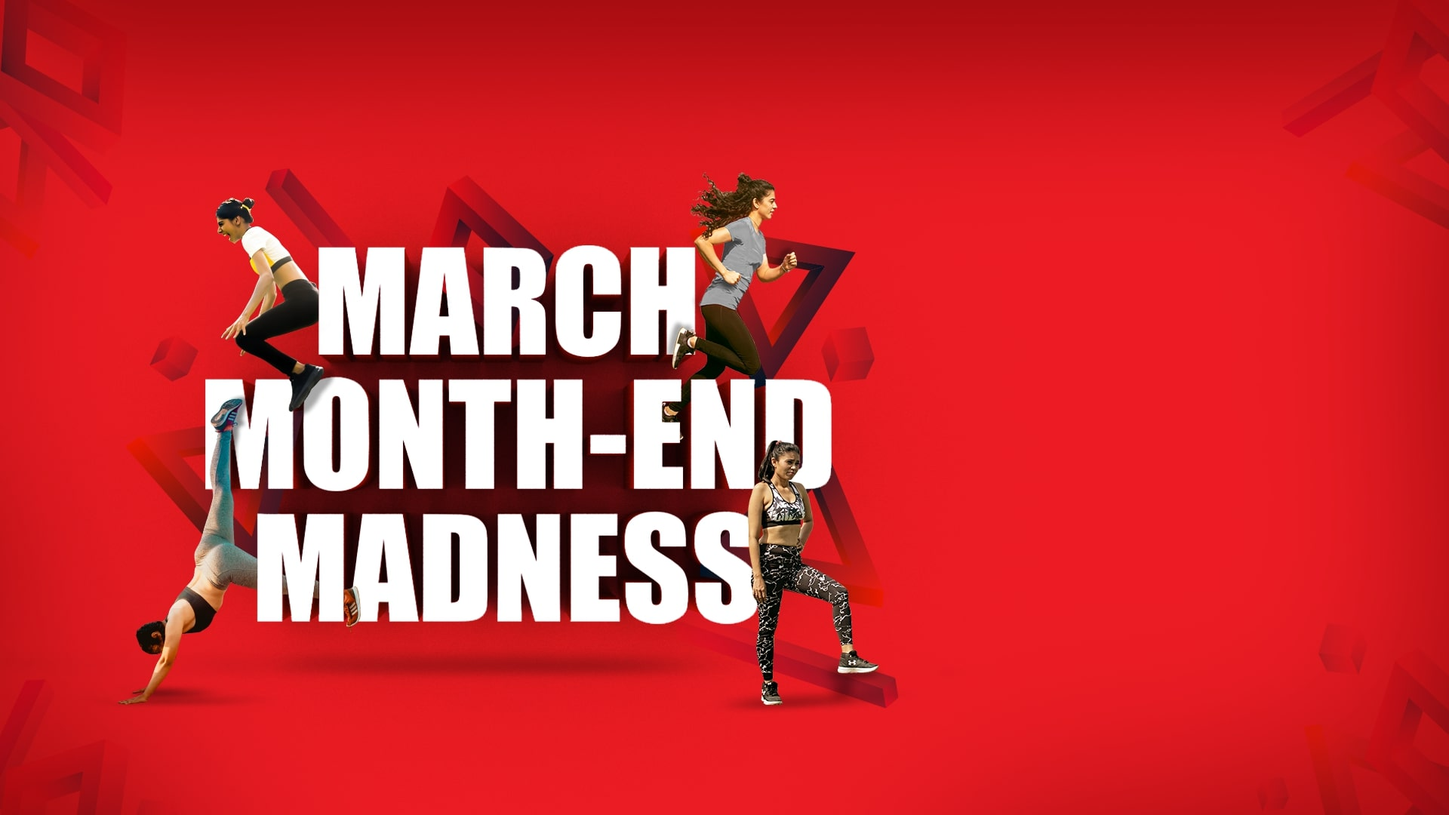
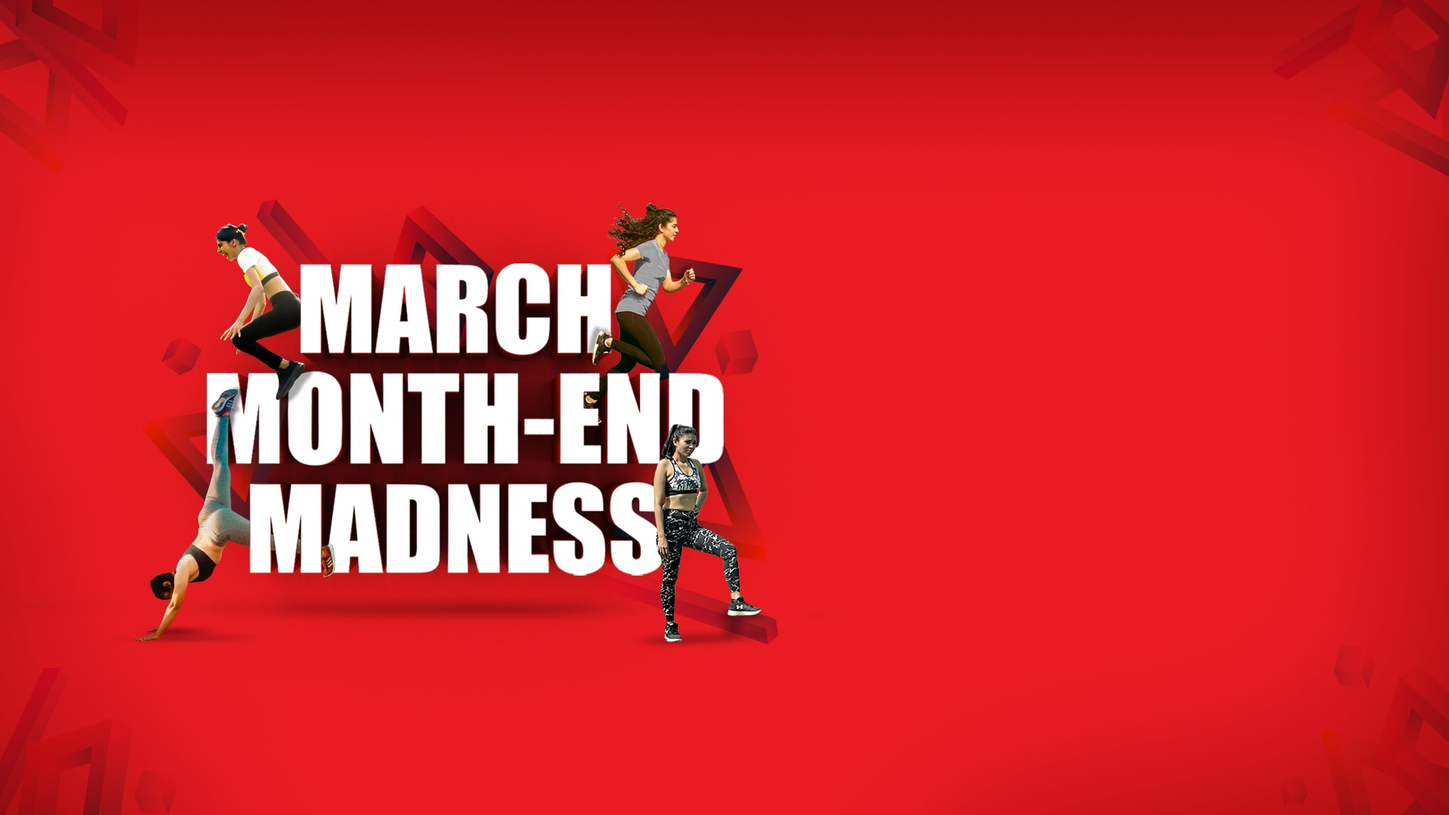
minor design changes

diff --git a/src/assets/css/style.css b/src/assets/css/style.css
@@ -1,1 +1,1 @@
-html{font-family:sans-serif;-ms-text-size-adjust:100%;-webkit-text-size-adjust:100%;-webkit-font-smoothing:antialiased;text-rendering:optimizeLegibility}body{margin:0;font-size:17px}article,aside,details,figcaption,figure,footer,header,main,menu,nav,section,summary{display:block}audio,canvas,progress,video{display:inline-block}audio:not([controls]){display:none;height:0}progress{vertical-align:baseline}[hidden],template{display:none}a{background-color:transparent;-webkit-text-decoration-skip:objects;text-decoration:none;color:#EB1F2E}a:active,a:hover{outline-width:0;border-bottom:1px solid #EB1F2E}abbr[title]{border-bottom:none;text-decoration:underline;-webkit-text-decoration:underline dotted;text-decoration:underline dotted}b,strong{font-weight:inherit;font-weight:700er}dfn{font-style:italic}h1{font-size:2em;margin:.67em 0}mark{background-color:#ff0;color:#000}small{font-size:80%}sub,sup{font-size:75%;line-height:0;position:relative;vertical-align:baseline}sub{bottom:-.25em}sup{top:-.5em}img{border-style:none}svg:not(:root){overflow:hidden}code,kbd,pre,samp{font-family:monospace, monospace;font-size:1em}figure{margin:1em 40px}hr{-webkit-box-sizing:content-box;box-sizing:content-box;height:0;overflow:visible}button,input,optgroup,select,textarea{font:inherit;margin:0}optgroup{font-weight:700}button,input{overflow:visible}button,select{text-transform:none}[type=reset],[type=submit],button,html [type=button]{-webkit-appearance:button}[type=button]::-moz-focus-inner,[type=reset]::-moz-focus-inner,[type=submit]::-moz-focus-inner,button::-moz-focus-inner{border-style:none;padding:0}[type=button]:-moz-focusring,[type=reset]:-moz-focusring,[type=submit]:-moz-focusring,button:-moz-focusring{outline:1px dotted ButtonText}fieldset{border:1px solid silver;margin:0 2px;padding:.35em .625em .75em}legend{-webkit-box-sizing:border-box;box-sizing:border-box;color:inherit;display:table;max-width:100%;padding:0;white-space:normal}textarea{overflow:auto}[type=checkbox],[type=radio]{-webkit-box-sizing:border-box;box-sizing:border-box;padding:0}[type=number]::-webkit-inner-spin-button,[type=number]::-webkit-outer-spin-button{height:auto}[type=search]{-webkit-appearance:textfield;outline-offset:-2px}[type=search]::-webkit-search-cancel-button,[type=search]::-webkit-search-decoration{-webkit-appearance:none}::-webkit-input-placeholder{color:inherit;opacity:.54}::-webkit-file-upload-button{-webkit-appearance:button;font:inherit}html{font:112.5%/1.45em georgia, serif;-webkit-box-sizing:border-box;box-sizing:border-box;overflow-y:scroll}*{-webkit-box-sizing:inherit;box-sizing:inherit}*:before{-webkit-box-sizing:inherit;box-sizing:inherit}*:after{-webkit-box-sizing:inherit;box-sizing:inherit}hgroup{margin-left:0;margin-right:0;margin-top:0;padding-bottom:0;padding-left:0;padding-right:0;padding-top:0;margin-bottom:1.45rem}ul{margin-left:1.45rem;margin-right:0;margin-top:0;padding-bottom:0;padding-left:0;padding-right:0;padding-top:0;margin-bottom:1.45rem;list-style-position:outside;list-style-image:none}ol{margin-left:1.45rem;margin-right:0;margin-top:0;padding-bottom:0;padding-left:0;padding-right:0;padding-top:0;margin-bottom:1.45rem;list-style-position:outside;list-style-image:none}dl{margin-left:0;margin-right:0;margin-top:0;padding-bottom:0;padding-left:0;padding-right:0;padding-top:0;margin-bottom:1.45rem}dd{margin-left:0;margin-right:0;margin-top:0;padding-bottom:0;padding-left:0;padding-right:0;padding-top:0;margin-bottom:1.45rem}p{margin-left:0;margin-right:0;margin-top:0;padding-bottom:0;padding-left:0;padding-right:0;padding-top:0;margin-bottom:1.45rem}figure{margin-left:0;margin-right:0;margin-top:0;padding-bottom:0;padding-left:0;padding-right:0;padding-top:0;margin-bottom:1.45rem}pre{margin-left:0;margin-right:0;margin-top:0;padding-bottom:0;padding-left:0;padding-right:0;padding-top:0;margin-bottom:1.45rem;font-size:0.85rem;line-height:1.42;background:rgba(0,0,0,0.04);border-radius:3px;overflow:auto;word-wrap:normal;padding:1.45rem}table{margin-left:0;margin-right:0;margin-top:0;padding-bottom:0;padding-left:0;padding-right:0;padding-top:0;margin-bottom:1.45rem;font-size:1rem;line-height:1.45rem;border-collapse:collapse;width:100%}fieldset{margin-left:0;margin-right:0;margin-top:0;padding-bottom:0;padding-left:0;padding-right:0;padding-top:0;margin-bottom:1.45rem}blockquote{margin-left:1.45rem;margin-right:1.45rem;margin-top:0;padding-bottom:0;padding-left:0;padding-right:0;padding-top:0;margin-bottom:1.45rem}form{margin-left:0;margin-right:0;margin-top:0;padding-bottom:0;padding-left:0;padding-right:0;padding-top:0;margin-bottom:1.45rem}noscript{margin-left:0;margin-right:0;margin-top:0;padding-bottom:0;padding-left:0;padding-right:0;padding-top:0;margin-bottom:1.45rem}iframe{margin-left:0;margin-right:0;margin-top:0;padding-bottom:0;padding-left:0;padding-right:0;padding-top:0;margin-bottom:1.45rem}hr{margin-left:0;margin-right:0;margin-top:0;padding-bottom:0;padding-left:0;padding-right:0;padding-top:0;margin-bottom:calc(1.45rem - 1px);background:rgba(0,0,0,0.2);border:none;height:1px}address{margin-left:0;margin-right:0;margin-top:0;padding-bottom:0;padding-left:0;padding-right:0;padding-top:0;margin-bottom:1.45rem}b{font-weight:700}strong{font-weight:700}dt{font-weight:700}th{font-weight:700}li{margin-bottom:calc(1.45rem / 2)}ol li{padding-left:0}ul li{padding-left:0}li>ol{margin-left:1.45rem;margin-bottom:calc(1.45rem / 2);margin-top:calc(1.45rem / 2)}li>ul{margin-left:1.45rem;margin-bottom:calc(1.45rem / 2);margin-top:calc(1.45rem / 2)}blockquote *:last-child{margin-bottom:0}li *:last-child{margin-bottom:0}p *:last-child{margin-bottom:0}li>p{margin-bottom:calc(1.45rem / 2)}code{font-size:0.85rem;line-height:1.45rem}kbd{font-size:0.85rem;line-height:1.45rem}samp{font-size:0.85rem;line-height:1.45rem}abbr{border-bottom:1px dotted rgba(0,0,0,0.5);cursor:help}acronym{border-bottom:1px dotted rgba(0,0,0,0.5);cursor:help}abbr[title]{border-bottom:1px dotted rgba(0,0,0,0.5);cursor:help;text-decoration:none}thead{text-align:left}td,th{text-align:left;border-bottom:1px solid rgba(0,0,0,0.12);font-feature-settings:"tnum";-moz-font-feature-settings:"tnum";-ms-font-feature-settings:"tnum";-webkit-font-feature-settings:"tnum";padding-left:0.96667rem;padding-right:0.96667rem;padding-top:0.725rem;padding-bottom:calc(0.725rem - 1px)}th:first-child,td:first-child{padding-left:0}th:last-child,td:last-child{padding-right:0}tt,code{background-color:rgba(0,0,0,0.04);border-radius:3px;font-family:"SFMono-Regular", Consolas, "Roboto Mono", "Droid Sans Mono", "Liberation Mono", Menlo, Courier, monospace;padding:0;padding-top:0.2em;padding-bottom:0.2em}pre code{background:none;line-height:1.42}code:before,code:after,tt:before,tt:after{letter-spacing:-0.2em;content:" "}pre code:before,pre code:after,pre tt:before,pre tt:after{content:""}@media only screen and (max-width: 480px){html{font-size:100%}}body{color:#1E1E1E;font-family:Roboto, Helvetica, Arial, sans-serif;font-weight:normal;word-wrap:break-word;-webkit-font-kerning:normal;font-kerning:normal;-ms-font-feature-settings:"kern", "liga", "clig", "calt";-webkit-font-feature-settings:"kern", "liga", "clig", "calt";font-feature-settings:"kern", "liga", "clig", "calt"}img{max-width:100%;margin-left:0;margin-right:0;margin-top:0;padding-bottom:0;padding-left:0;padding-right:0;padding-top:0;margin-bottom:10px}h1,h2,h3,h4,h5,h6{margin-left:0;margin-right:0;margin-top:0;padding-bottom:0;padding-left:0;padding-right:0;padding-top:0;margin-bottom:20px;color:inherit;font-weight:700;text-rendering:optimizeLegibility;line-height:1.5;font-family:Roboto, Helvetica, Arial, sans-serif}h1{font-size:2.75em;line-height:1.15em}h2{font-size:2.25em}h3{font-size:1.75em;line-height:1.35}h4{font-size:1.125em}h5{font-size:1em}h6{font-size:0.75em}@media screen and (max-width: 767px){h1{font-size:2.5em}h2{font-size:2em}h3{font-size:1.5em}}@media screen and (max-width: 480px){h1{font-size:2em}h2{font-size:1.625em}h3{font-size:1.375em}}input[type="text"],input[type="tel"],input[type="email"],input[type="number"],select{padding:10px 15px 10px 0px;margin:10px 0;border:none;border-bottom:2px solid #aaaaaa;-webkit-transition:all 0.2s ease-in-out;transition:all 0.2s ease-in-out;width:100%;background-color:unset}select{color:#767676}option{color:#1E1E1E}input[type="text"],input[type="tel"],input[type="email"],input[type="number"]{padding-left:4px}input[type="text"]:focus,input[type="tel"]:focus,input[type="email"]:focus,input[type="number"]:focus,select:focus{outline:none;border-bottom-color:#EB1F2E}p,small{color:#4b4b4b}.container{max-width:1200px;padding:0 3%;margin:0 auto}.red{color:#EB1F2E}.line{height:4px;width:100px;background-color:#EB1F2E;margin:25px 0;-webkit-border-radius:5px;-moz-border-radius:5px;border-radius:5px}.yellow{color:#fede0d}.white{color:#ffffff}.align-center{text-align:center}.normal{font-weight:normal}.bold{font-weight:700}.button,.button:visited,input[type="submit"],input[type="submit"]:visited{display:inline-block;background-color:#EB1F2E;color:#ffffff;padding:10px 15px;border-radius:5px;font-weight:700;-webkit-box-shadow:0px 2px 5px rgba(0,0,0,0.35);box-shadow:0px 2px 5px rgba(0,0,0,0.35);-webkit-transition:all 0.2s ease-in-out;transition:all 0.2s ease-in-out;border-bottom-width:0;text-transform:uppercase;font-size:85%;margin:10px;outline:none;border:none;cursor:pointer}.button:hover,.button:focus,input[type="submit"]:hover,input[type="submit"]:focus{-webkit-transform:translateY(-2px);transform:translateY(-2px);background-color:#ee3a46;-webkit-box-shadow:0px 2px 10px rgba(0,0,0,0.35);box-shadow:0px 2px 10px rgba(0,0,0,0.35);border-bottom-width:0}.button-inverted,.button-inverted:visited{display:inline-block;background-color:#ffffff;color:#EB1F2E;padding:10px 15px;border-radius:5px;font-weight:700;-webkit-box-shadow:0px 2px 5px rgba(0,0,0,0.35);box-shadow:0px 2px 5px rgba(0,0,0,0.35);-webkit-transition:all 0.2s ease-in-out;transition:all 0.2s ease-in-out;border-bottom-width:0;text-transform:uppercase;font-size:90%;margin:10px}.button-inverted:hover,.button-inverted:focus{-webkit-transform:translateY(-2px);transform:translateY(-2px);-webkit-box-shadow:0px 2px 10px rgba(0,0,0,0.35);box-shadow:0px 2px 10px rgba(0,0,0,0.35);border-bottom-width:0}.button-fluid{width:100%;text-align:center;margin:0;font-size:18px}.offer{padding:10px;background-color:#ffde5f;-webkit-box-shadow:5.66px 5.66px 0px 0px #dbba3b;box-shadow:5.66px 5.66px 0px 0px #dbba3b;color:#EB1F2E;font-size:120%;max-width:300px;margin:0px auto 30px auto}@media only screen and (max-width: 767px){.d-none-sm{display:none}}.partial-get-started{background-color:#efefef;padding:100px 15%}.partial-get-started>div{display:-webkit-box;display:-ms-flexbox;display:flex;-ms-flex-wrap:wrap;flex-wrap:wrap}.partial-get-started__text,.partial-get-started__cta{-webkit-box-flex:50%;-ms-flex:50%;flex:50%;min-width:350px}.partial-get-started__cta{text-align:right;padding-top:20px}@media (max-width: 767px){.partial-get-started{background-color:#efefef;padding:100px 10%}.partial-get-started__cta{text-align:center}}@media (max-width: 480px){.partial-get-started{padding:100px 5%}.partial-get-started__text,.partial-get-started__cta{-webkit-box-flex:100%;-ms-flex:100%;flex:100%;min-width:200px}}.partial-app-icon{display:inline-block;width:150px;margin-right:15px;-webkit-box-shadow:0px 2px 5px rgba(0,0,0,0.35);box-shadow:0px 2px 5px rgba(0,0,0,0.35);-webkit-transition:all 0.2s ease-in-out;transition:all 0.2s ease-in-out;margin-bottom:0;vertical-align:bottom;border-radius:6px}.partial-app-icon:hover,.partial-app-icon:focus{-webkit-transform:translateY(-2px);transform:translateY(-2px);-webkit-box-shadow:0px 2px 10px rgba(0,0,0,0.35);box-shadow:0px 2px 10px rgba(0,0,0,0.35)}@media (max-width: 767px){.partial-app-icon{margin-bottom:10px}}.partial-app-icons>a,.partial-app-icons>a:hover,.partial-app-icons>a:visited,.partial-app-icons>a:focus{border-bottom-width:0}.partial-download-swipe{padding-top:50px}.partial-download-swipe .container{display:flex;flex-wrap:wrap;justify-content:center;align-items:center}.partial-download-swipe__left,.partial-download-swipe__right{flex:50%;padding:50px;min-width:350px;padding-bottom:100px}.partial-download-swipe__left h2{margin-bottom:5px}.partial-download-swipe__right{text-align:center;padding-bottom:0}.partial-download-swipe__right img{max-width:300px;margin-bottom:0;vertical-align:middle}@media (max-width: 979px){.partial-download-swipe__left{padding:10px}}@media (max-width: 767px){.partial-download-swipe__left{padding:10px}.partial-download-swipe__right{padding-top:20px;padding-right:15%;padding-left:15%;padding-bottom:0}.partial-download-swipe__right img{max-width:100%}}.main-header{position:relative;padding:15px 20px;z-index:99;-webkit-box-shadow:0 2px 1px -1px rgba(0,0,0,0.2),0 1px 1px 0 rgba(0,0,0,0.14),0 1px 3px 0 rgba(0,0,0,0.12);box-shadow:0 2px 1px -1px rgba(0,0,0,0.2),0 1px 1px 0 rgba(0,0,0,0.14),0 1px 3px 0 rgba(0,0,0,0.12)}.main-header img{width:110px;margin-bottom:0;vertical-align:middle}.menu-icon-link:hover,.menu-icon-link:focus{border-bottom:none}.menu-link{float:right;margin-top:12px;padding-bottom:0px;color:#222222;color:rgba(0,0,0,0.6);border-bottom:1px solid transparent;line-height:1.3;-webkit-transition:all 0.2s ease-in-out;transition:all 0.2s ease-in-out}.menu-link:hover{color:rgba(0,0,0,0.9);border-bottom-color:rgba(0,0,0,0.8)}.footer-copyright{padding:20px 0;background-color:#1E1E1E;color:#888888;text-align:center}.footer-copyright a,.footer-copyright small{color:#616161;color:rgba(255,255,255,0.3);border:none !important}.footer-copyright a:hover,.footer-copyright a:focus{text-decoration:underline}.offer-highlight{background-color:#EB1F2E;padding:7px 12px;color:#ffffff;font-size:28px;-webkit-box-shadow:3px 3px 0px #9E1627;-moz-box-shadow:3px 3px 0px #9E1627;box-shadow:3px 3px 0px #9E1627;margin-left:10px;margin-right:12px}.offer-title-highlight{font-size:1.35em;line-height:1.3em;color:#EB1F2E;text-transform:uppercase;margin-bottom:15px;font-weight:bold}.offers-page-hero{padding-top:75px;padding-bottom:75px;background-image:url("../img/fitato-holi-offer.jpg");background-position:15% center;-webkit-background-size:450px;-moz-background-size:450px;background-size:450px;background-repeat:no-repeat;position:relative;min-height:550px;margin-bottom:-1px;text-align:center}.offers-page-hero__wrapper{width:55%;margin-left:auto}.offers-page-hero p{font-size:19px;line-height:1.3em;margin-bottom:0;margin-top:0}.offers-page-hero h1{margin-top:50px;margin-bottom:30px;font-size:68px;line-height:0.85em;color:#EB1F2E;font-weight:700;font-size:3.3em}.offers-page-hero h1 .normal{font-size:0.75em}@media (max-width: 979px){.offers-page-hero h1{font-size:3em}}@media (max-width: 767px){.offers-page-hero{min-height:100vh;padding-top:30px;padding-bottom:0px;padding-left:5%;padding-right:5%;-webkit-background-size:350px;-moz-background-size:350px;background-size:350px;background-position:top}.offers-page-hero__wrapper{width:100%}.offers-page-hero h1{font-size:38px;margin-top:350px}.offers-page-hero--prop__top-right{display:none}.offers-page-hero--prop__bottom-left{display:none}.offers-page-hero p{font-size:24px;line-height:1.4em}}@media (max-width: 380px){.offers-page-hero h1{font-size:34px}}.offers-page-intro{padding:50px 10%;padding-top:0px;margin-top:0px;text-align:center}.offers-page-intro--use-coupon{font-size:26px;padding-top:10px;font-weight:700;line-height:2em;color:#1E1E1E}.offers-page-intro small{color:#818181}.offers-page-intro .pricing-row{margin-bottom:20px}.offers-page-intro .pricing-col{border:1px solid #EFEFEF;-webkit-border-radius:5px;-moz-border-radius:5px;border-radius:5px}.offers-page-intro h2{max-width:600px;margin:20px auto 50px auto;line-height:1.3em}.offers-page-intro h3{font-size:24px;margin-bottom:30px;color:#383838}.offers-page-intro__items{padding:50px 0 10px 0;width:70%;margin:0 auto}.offers-page-intro__item--left,.offers-page-intro__item--right{-webkit-box-flex:1;-webkit-flex:1;-moz-box-flex:1;-ms-flex:1;flex:1;padding:0 30px}@media (max-width: 1200px){.offers-page-intro{padding:50px 10%;padding-top:20px;margin-top:0px}}@media (max-width: 979px){.offers-page-intro{margin-top:0px}}@media (max-width: 767px){.offers-page-intro{padding:50px 2%;margin-top:0px;text-align:center}.offers-page-intro--clear{display:block}}@media (max-width: 480px){.offers-page-intro{text-align:center}}.offers-page-banner{padding:100px 25%;background-repeat:no-repeat;-webkit-background-size:cover;-moz-background-size:cover;background-size:cover;background-position:center;background-color:#EFEFEF;text-align:center}.offers-page-banner h2{line-height:1.2em}.offers-page-banner p{font-size:20px;margin-bottom:0;line-height:1.4em}@media (max-width: 767px){.offers-page-banner{padding:100px 5%;text-align:left}}.offers-page-plans__items{display:-webkit-box;display:-ms-flexbox;display:-webkit-flex;display:-moz-box;display:flex;-ms-flex-wrap:wrap;-webkit-flex-wrap:wrap;flex-wrap:wrap;-webkit-box-pack:center;-ms-flex-pack:center;-webkit-justify-content:center;-moz-box-pack:center;justify-content:center;margin-bottom:20px;margin-top:30px}@media (max-width: 767px){.offers-page-plans__items{margin-bottom:10px}}.offers-page-plans__item{background-color:rgba(255,255,255,0.25);-webkit-box-flex:1;-ms-flex:1;-webkit-flex:1;-moz-box-flex:1;flex:1;min-width:300px;max-width:350px;-webkit-border-radius:5px;-moz-border-radius:5px;border-radius:5px;border:1px solid #dddddd;margin:0 10px;position:relative}.offers-page-plans__item--title{padding:30px;padding-bottom:20px;border-bottom:1px solid #dddddd}.offers-page-plans__item--title h3{margin-bottom:0;line-height:1.25em;font-size:1.35em;text-transform:uppercase;letter-spacing:0px}.offers-page-plans__item--body{padding:20px 5%}.offers-page-plans__item--cta{padding:30px;border-top:1px solid #ffdddd}.offers-page-plans__item--cta a{font-size:18px;font-weight:700}.offers-page-plans__item--price{font-size:44px;font-weight:700;color:#EB1F2E}.offers-page-plans__item--price-strike{font-size:24px;margin-bottom:20px;text-decoration:line-through}.offers-page-plans__item--get-cb{margin:0;font-weight:400;font-size:18px;padding-top:0px}@media (max-width: 767px){.offers-page-plans__item{margin-top:-1px}}@media (max-width: 480px){.offers-page-plans__item{margin:10px}}.fit-55 .offers-page-hero{background-image:url("../img/month-end-madenss.jpg");-webkit-background-size:cover;-moz-background-size:cover;background-size:cover;background-repeat:no-repeat;background-position:center;text-align:left;padding-top:100px;padding-bottom:0;overflow:auto;min-height:100vh}@media only screen and (max-width: 767px){.fit-55 .offers-page-hero{background-image:url("/assets/img/month-end-madenss-mobile.jpg");background-color:#E61B21;background-position:top;background-size:contain}}.fit-55 .offers-page-hero__wrapper{margin:0;width:35%;margin-left:auto;padding-right:20px;padding-left:5%;margin-top:15vh}@media (max-width: 767px){.fit-55 .offers-page-hero__wrapper{width:100%;padding-right:0px;padding-left:0px;margin-top:450px;margin-top:55vw;padding-bottom:5vw}}@media (max-width: 480px){.fit-55 .offers-page-hero__wrapper{padding-bottom:0}}.fit-55 .offers-page-hero h1{font-size:3em;font-style:italic;color:#EB1F2E;font-weight:900;margin-bottom:20px;margin-top:0;line-height:1.1}@media (max-width: 979px){.fit-55 .offers-page-hero h1{font-size:2.5em}}@media (max-width: 767px){.fit-55 .offers-page-hero h1{margin-top:10px;font-size:2em}}@media (max-width: 480px){.fit-55 .offers-page-hero h1{font-size:1.7em}}.fit-55 .offers-page-hero h2{font-size:1.7em;font-weight:900;line-height:1;color:#1E1E1E;margin-bottom:5px;font-style:italic}@media (max-width: 767px){.fit-55 .offers-page-hero h2{font-size:1.4em}}@media (max-width: 380px){.fit-55 .offers-page-hero h2{font-size:1.2em}}.fit-55 .offers-page-hero p.focus{font-size:1.5em;font-size:2em;color:#ffffff;margin-bottom:50px;margin-bottom:30px;font-weight:400;margin-top:5px}@media (max-width: 767px){.fit-55 .offers-page-hero p.focus{font-size:1.2em}}@media (max-width: 767px){.fit-55 .offers-page-hero p{font-size:1.3em}}.fit-55 .offers-page-intro{padding-top:50px;z-index:99;position:relative}p.move-down-icon-animate{font-size:16px !important;text-align:left;padding-top:100px;font-style:normal;font-weight:400;-webkit-filter:opacity(0.9);filter:opacity(0.9)}@media (max-width: 767px){p.move-down-icon-animate{display:none}}.black{color:#1E1E1E}.banner-mobile{display:none}@media (max-width: 767px){.banner-mobile{display:block}}p.offers-page-hero--code{font-size:2.5em;font-weight:700;margin:25px 0}p.offers-page-hero--code span{padding:15px 20px;border:2px dashed #4b4b4b;border-color:#ffffff;color:#eaff00}
+html{font-family:sans-serif;-ms-text-size-adjust:100%;-webkit-text-size-adjust:100%;-webkit-font-smoothing:antialiased;text-rendering:optimizeLegibility}body{margin:0;font-size:17px}article,aside,details,figcaption,figure,footer,header,main,menu,nav,section,summary{display:block}audio,canvas,progress,video{display:inline-block}audio:not([controls]){display:none;height:0}progress{vertical-align:baseline}[hidden],template{display:none}a{background-color:transparent;-webkit-text-decoration-skip:objects;text-decoration:none;color:#EB1F2E}a:active,a:hover{outline-width:0;border-bottom:1px solid #EB1F2E}abbr[title]{border-bottom:none;text-decoration:underline;-webkit-text-decoration:underline dotted;text-decoration:underline dotted}b,strong{font-weight:inherit;font-weight:700er}dfn{font-style:italic}h1{font-size:2em;margin:.67em 0}mark{background-color:#ff0;color:#000}small{font-size:80%}sub,sup{font-size:75%;line-height:0;position:relative;vertical-align:baseline}sub{bottom:-.25em}sup{top:-.5em}img{border-style:none}svg:not(:root){overflow:hidden}code,kbd,pre,samp{font-family:monospace, monospace;font-size:1em}figure{margin:1em 40px}hr{-webkit-box-sizing:content-box;box-sizing:content-box;height:0;overflow:visible}button,input,optgroup,select,textarea{font:inherit;margin:0}optgroup{font-weight:700}button,input{overflow:visible}button,select{text-transform:none}[type=reset],[type=submit],button,html [type=button]{-webkit-appearance:button}[type=button]::-moz-focus-inner,[type=reset]::-moz-focus-inner,[type=submit]::-moz-focus-inner,button::-moz-focus-inner{border-style:none;padding:0}[type=button]:-moz-focusring,[type=reset]:-moz-focusring,[type=submit]:-moz-focusring,button:-moz-focusring{outline:1px dotted ButtonText}fieldset{border:1px solid silver;margin:0 2px;padding:.35em .625em .75em}legend{-webkit-box-sizing:border-box;box-sizing:border-box;color:inherit;display:table;max-width:100%;padding:0;white-space:normal}textarea{overflow:auto}[type=checkbox],[type=radio]{-webkit-box-sizing:border-box;box-sizing:border-box;padding:0}[type=number]::-webkit-inner-spin-button,[type=number]::-webkit-outer-spin-button{height:auto}[type=search]{-webkit-appearance:textfield;outline-offset:-2px}[type=search]::-webkit-search-cancel-button,[type=search]::-webkit-search-decoration{-webkit-appearance:none}::-webkit-input-placeholder{color:inherit;opacity:.54}::-webkit-file-upload-button{-webkit-appearance:button;font:inherit}html{font:112.5%/1.45em georgia, serif;-webkit-box-sizing:border-box;box-sizing:border-box;overflow-y:scroll}*{-webkit-box-sizing:inherit;box-sizing:inherit}*:before{-webkit-box-sizing:inherit;box-sizing:inherit}*:after{-webkit-box-sizing:inherit;box-sizing:inherit}hgroup{margin-left:0;margin-right:0;margin-top:0;padding-bottom:0;padding-left:0;padding-right:0;padding-top:0;margin-bottom:1.45rem}ul{margin-left:1.45rem;margin-right:0;margin-top:0;padding-bottom:0;padding-left:0;padding-right:0;padding-top:0;margin-bottom:1.45rem;list-style-position:outside;list-style-image:none}ol{margin-left:1.45rem;margin-right:0;margin-top:0;padding-bottom:0;padding-left:0;padding-right:0;padding-top:0;margin-bottom:1.45rem;list-style-position:outside;list-style-image:none}dl{margin-left:0;margin-right:0;margin-top:0;padding-bottom:0;padding-left:0;padding-right:0;padding-top:0;margin-bottom:1.45rem}dd{margin-left:0;margin-right:0;margin-top:0;padding-bottom:0;padding-left:0;padding-right:0;padding-top:0;margin-bottom:1.45rem}p{margin-left:0;margin-right:0;margin-top:0;padding-bottom:0;padding-left:0;padding-right:0;padding-top:0;margin-bottom:1.45rem}figure{margin-left:0;margin-right:0;margin-top:0;padding-bottom:0;padding-left:0;padding-right:0;padding-top:0;margin-bottom:1.45rem}pre{margin-left:0;margin-right:0;margin-top:0;padding-bottom:0;padding-left:0;padding-right:0;padding-top:0;margin-bottom:1.45rem;font-size:0.85rem;line-height:1.42;background:rgba(0,0,0,0.04);border-radius:3px;overflow:auto;word-wrap:normal;padding:1.45rem}table{margin-left:0;margin-right:0;margin-top:0;padding-bottom:0;padding-left:0;padding-right:0;padding-top:0;margin-bottom:1.45rem;font-size:1rem;line-height:1.45rem;border-collapse:collapse;width:100%}fieldset{margin-left:0;margin-right:0;margin-top:0;padding-bottom:0;padding-left:0;padding-right:0;padding-top:0;margin-bottom:1.45rem}blockquote{margin-left:1.45rem;margin-right:1.45rem;margin-top:0;padding-bottom:0;padding-left:0;padding-right:0;padding-top:0;margin-bottom:1.45rem}form{margin-left:0;margin-right:0;margin-top:0;padding-bottom:0;padding-left:0;padding-right:0;padding-top:0;margin-bottom:1.45rem}noscript{margin-left:0;margin-right:0;margin-top:0;padding-bottom:0;padding-left:0;padding-right:0;padding-top:0;margin-bottom:1.45rem}iframe{margin-left:0;margin-right:0;margin-top:0;padding-bottom:0;padding-left:0;padding-right:0;padding-top:0;margin-bottom:1.45rem}hr{margin-left:0;margin-right:0;margin-top:0;padding-bottom:0;padding-left:0;padding-right:0;padding-top:0;margin-bottom:calc(1.45rem - 1px);background:rgba(0,0,0,0.2);border:none;height:1px}address{margin-left:0;margin-right:0;margin-top:0;padding-bottom:0;padding-left:0;padding-right:0;padding-top:0;margin-bottom:1.45rem}b{font-weight:700}strong{font-weight:700}dt{font-weight:700}th{font-weight:700}li{margin-bottom:calc(1.45rem / 2)}ol li{padding-left:0}ul li{padding-left:0}li>ol{margin-left:1.45rem;margin-bottom:calc(1.45rem / 2);margin-top:calc(1.45rem / 2)}li>ul{margin-left:1.45rem;margin-bottom:calc(1.45rem / 2);margin-top:calc(1.45rem / 2)}blockquote *:last-child{margin-bottom:0}li *:last-child{margin-bottom:0}p *:last-child{margin-bottom:0}li>p{margin-bottom:calc(1.45rem / 2)}code{font-size:0.85rem;line-height:1.45rem}kbd{font-size:0.85rem;line-height:1.45rem}samp{font-size:0.85rem;line-height:1.45rem}abbr{border-bottom:1px dotted rgba(0,0,0,0.5);cursor:help}acronym{border-bottom:1px dotted rgba(0,0,0,0.5);cursor:help}abbr[title]{border-bottom:1px dotted rgba(0,0,0,0.5);cursor:help;text-decoration:none}thead{text-align:left}td,th{text-align:left;border-bottom:1px solid rgba(0,0,0,0.12);font-feature-settings:"tnum";-moz-font-feature-settings:"tnum";-ms-font-feature-settings:"tnum";-webkit-font-feature-settings:"tnum";padding-left:0.96667rem;padding-right:0.96667rem;padding-top:0.725rem;padding-bottom:calc(0.725rem - 1px)}th:first-child,td:first-child{padding-left:0}th:last-child,td:last-child{padding-right:0}tt,code{background-color:rgba(0,0,0,0.04);border-radius:3px;font-family:"SFMono-Regular", Consolas, "Roboto Mono", "Droid Sans Mono", "Liberation Mono", Menlo, Courier, monospace;padding:0;padding-top:0.2em;padding-bottom:0.2em}pre code{background:none;line-height:1.42}code:before,code:after,tt:before,tt:after{letter-spacing:-0.2em;content:" "}pre code:before,pre code:after,pre tt:before,pre tt:after{content:""}@media only screen and (max-width: 480px){html{font-size:100%}}body{color:#1E1E1E;font-family:Roboto, Helvetica, Arial, sans-serif;font-weight:normal;word-wrap:break-word;-webkit-font-kerning:normal;font-kerning:normal;-ms-font-feature-settings:"kern", "liga", "clig", "calt";-webkit-font-feature-settings:"kern", "liga", "clig", "calt";font-feature-settings:"kern", "liga", "clig", "calt"}img{max-width:100%;margin-left:0;margin-right:0;margin-top:0;padding-bottom:0;padding-left:0;padding-right:0;padding-top:0;margin-bottom:10px}h1,h2,h3,h4,h5,h6{margin-left:0;margin-right:0;margin-top:0;padding-bottom:0;padding-left:0;padding-right:0;padding-top:0;margin-bottom:20px;color:inherit;font-weight:700;text-rendering:optimizeLegibility;line-height:1.5;font-family:Roboto, Helvetica, Arial, sans-serif}h1{font-size:2.75em;line-height:1.15em}h2{font-size:2.25em}h3{font-size:1.75em;line-height:1.35}h4{font-size:1.125em}h5{font-size:1em}h6{font-size:0.75em}@media screen and (max-width: 767px){h1{font-size:2.5em}h2{font-size:2em}h3{font-size:1.5em}}@media screen and (max-width: 480px){h1{font-size:2em}h2{font-size:1.625em}h3{font-size:1.375em}}input[type="text"],input[type="tel"],input[type="email"],input[type="number"],select{padding:10px 15px 10px 0px;margin:10px 0;border:none;border-bottom:2px solid #aaaaaa;-webkit-transition:all 0.2s ease-in-out;transition:all 0.2s ease-in-out;width:100%;background-color:unset}select{color:#767676}option{color:#1E1E1E}input[type="text"],input[type="tel"],input[type="email"],input[type="number"]{padding-left:4px}input[type="text"]:focus,input[type="tel"]:focus,input[type="email"]:focus,input[type="number"]:focus,select:focus{outline:none;border-bottom-color:#EB1F2E}p,small{color:#4b4b4b}.container{max-width:1200px;padding:0 3%;margin:0 auto}.red{color:#EB1F2E}.line{height:4px;width:100px;background-color:#EB1F2E;margin:25px 0;-webkit-border-radius:5px;-moz-border-radius:5px;border-radius:5px}.yellow{color:#fede0d}.white{color:#ffffff}.align-center{text-align:center}.normal{font-weight:normal}.bold{font-weight:700}.button,.button:visited,input[type="submit"],input[type="submit"]:visited{display:inline-block;background-color:#EB1F2E;color:#ffffff;padding:10px 15px;border-radius:5px;font-weight:700;-webkit-box-shadow:0px 2px 5px rgba(0,0,0,0.35);box-shadow:0px 2px 5px rgba(0,0,0,0.35);-webkit-transition:all 0.2s ease-in-out;transition:all 0.2s ease-in-out;border-bottom-width:0;text-transform:uppercase;font-size:85%;margin:10px;outline:none;border:none;cursor:pointer}.button:hover,.button:focus,input[type="submit"]:hover,input[type="submit"]:focus{-webkit-transform:translateY(-2px);transform:translateY(-2px);background-color:#ee3a46;-webkit-box-shadow:0px 2px 10px rgba(0,0,0,0.35);box-shadow:0px 2px 10px rgba(0,0,0,0.35);border-bottom-width:0}.button-inverted,.button-inverted:visited{display:inline-block;background-color:#ffffff;color:#EB1F2E;padding:10px 15px;border-radius:5px;font-weight:700;-webkit-box-shadow:0px 2px 5px rgba(0,0,0,0.35);box-shadow:0px 2px 5px rgba(0,0,0,0.35);-webkit-transition:all 0.2s ease-in-out;transition:all 0.2s ease-in-out;border-bottom-width:0;text-transform:uppercase;font-size:90%;margin:10px}.button-inverted:hover,.button-inverted:focus{-webkit-transform:translateY(-2px);transform:translateY(-2px);-webkit-box-shadow:0px 2px 10px rgba(0,0,0,0.35);box-shadow:0px 2px 10px rgba(0,0,0,0.35);border-bottom-width:0}.button-fluid{width:100%;text-align:center;margin:0;font-size:18px}.offer{padding:10px;background-color:#ffde5f;-webkit-box-shadow:5.66px 5.66px 0px 0px #dbba3b;box-shadow:5.66px 5.66px 0px 0px #dbba3b;color:#EB1F2E;font-size:120%;max-width:300px;margin:0px auto 30px auto}@media only screen and (max-width: 767px){.d-none-sm{display:none}}.partial-get-started{background-color:#efefef;padding:100px 15%}.partial-get-started>div{display:-webkit-box;display:-ms-flexbox;display:flex;-ms-flex-wrap:wrap;flex-wrap:wrap}.partial-get-started__text,.partial-get-started__cta{-webkit-box-flex:50%;-ms-flex:50%;flex:50%;min-width:350px}.partial-get-started__cta{text-align:right;padding-top:20px}@media (max-width: 767px){.partial-get-started{background-color:#efefef;padding:100px 10%}.partial-get-started__cta{text-align:center}}@media (max-width: 480px){.partial-get-started{padding:100px 5%}.partial-get-started__text,.partial-get-started__cta{-webkit-box-flex:100%;-ms-flex:100%;flex:100%;min-width:200px}}.partial-app-icon{display:inline-block;width:150px;margin-right:15px;-webkit-box-shadow:0px 2px 5px rgba(0,0,0,0.35);box-shadow:0px 2px 5px rgba(0,0,0,0.35);-webkit-transition:all 0.2s ease-in-out;transition:all 0.2s ease-in-out;margin-bottom:0;vertical-align:bottom;border-radius:6px}.partial-app-icon:hover,.partial-app-icon:focus{-webkit-transform:translateY(-2px);transform:translateY(-2px);-webkit-box-shadow:0px 2px 10px rgba(0,0,0,0.35);box-shadow:0px 2px 10px rgba(0,0,0,0.35)}@media (max-width: 767px){.partial-app-icon{margin-bottom:10px}}.partial-app-icons>a,.partial-app-icons>a:hover,.partial-app-icons>a:visited,.partial-app-icons>a:focus{border-bottom-width:0}.partial-download-swipe{padding-top:50px}.partial-download-swipe .container{display:flex;flex-wrap:wrap;justify-content:center;align-items:center}.partial-download-swipe__left,.partial-download-swipe__right{flex:50%;padding:50px;min-width:350px;padding-bottom:100px}.partial-download-swipe__left h2{margin-bottom:5px}.partial-download-swipe__right{text-align:center;padding-bottom:0}.partial-download-swipe__right img{max-width:300px;margin-bottom:0;vertical-align:middle}@media (max-width: 979px){.partial-download-swipe__left{padding:10px}}@media (max-width: 767px){.partial-download-swipe__left{padding:10px}.partial-download-swipe__right{padding-top:20px;padding-right:15%;padding-left:15%;padding-bottom:0}.partial-download-swipe__right img{max-width:100%}}.main-header{position:relative;padding:15px 20px;z-index:99;-webkit-box-shadow:0 2px 1px -1px rgba(0,0,0,0.2),0 1px 1px 0 rgba(0,0,0,0.14),0 1px 3px 0 rgba(0,0,0,0.12);box-shadow:0 2px 1px -1px rgba(0,0,0,0.2),0 1px 1px 0 rgba(0,0,0,0.14),0 1px 3px 0 rgba(0,0,0,0.12)}.main-header img{width:110px;margin-bottom:0;vertical-align:middle}.menu-icon-link:hover,.menu-icon-link:focus{border-bottom:none}.menu-link{float:right;margin-top:12px;padding-bottom:0px;color:#222222;color:rgba(0,0,0,0.6);border-bottom:1px solid transparent;line-height:1.3;-webkit-transition:all 0.2s ease-in-out;transition:all 0.2s ease-in-out}.menu-link:hover{color:rgba(0,0,0,0.9);border-bottom-color:rgba(0,0,0,0.8)}.footer-copyright{padding:20px 0;background-color:#1E1E1E;color:#888888;text-align:center}.footer-copyright a,.footer-copyright small{color:#616161;color:rgba(255,255,255,0.3);border:none !important}.footer-copyright a:hover,.footer-copyright a:focus{text-decoration:underline}.offer-highlight{background-color:#EB1F2E;padding:7px 12px;color:#ffffff;font-size:28px;-webkit-box-shadow:3px 3px 0px #9E1627;-moz-box-shadow:3px 3px 0px #9E1627;box-shadow:3px 3px 0px #9E1627;margin-left:10px;margin-right:12px}.offer-title-highlight{font-size:1.35em;line-height:1.3em;color:#EB1F2E;text-transform:uppercase;margin-bottom:15px;font-weight:bold}.offers-page-hero{padding-top:75px;padding-bottom:75px;background-image:url("../img/fitato-holi-offer.jpg");background-position:15% center;-webkit-background-size:450px;-moz-background-size:450px;background-size:450px;background-repeat:no-repeat;position:relative;min-height:550px;margin-bottom:-1px;text-align:center}.offers-page-hero__wrapper{width:55%;margin-left:auto}.offers-page-hero p{font-size:19px;line-height:1.3em;margin-bottom:0;margin-top:0}.offers-page-hero h1{margin-top:50px;margin-bottom:30px;font-size:68px;line-height:0.85em;color:#EB1F2E;font-weight:700;font-size:3.3em}.offers-page-hero h1 .normal{font-size:0.75em}@media (max-width: 979px){.offers-page-hero h1{font-size:3em}}@media (max-width: 767px){.offers-page-hero{min-height:100vh;padding-top:30px;padding-bottom:0px;padding-left:5%;padding-right:5%;-webkit-background-size:350px;-moz-background-size:350px;background-size:350px;background-position:top}.offers-page-hero__wrapper{width:100%}.offers-page-hero h1{font-size:38px;margin-top:350px}.offers-page-hero--prop__top-right{display:none}.offers-page-hero--prop__bottom-left{display:none}.offers-page-hero p{font-size:24px;line-height:1.4em}}@media (max-width: 380px){.offers-page-hero h1{font-size:34px}}.offers-page-intro{padding:50px 10%;padding-top:0px;margin-top:0px;text-align:center}.offers-page-intro--use-coupon{font-size:26px;padding-top:10px;font-weight:700;line-height:2em;color:#1E1E1E}.offers-page-intro small{color:#818181}.offers-page-intro .pricing-row{margin-bottom:20px}.offers-page-intro .pricing-col{border:1px solid #EFEFEF;-webkit-border-radius:5px;-moz-border-radius:5px;border-radius:5px}.offers-page-intro h2{max-width:600px;margin:20px auto 50px auto;line-height:1.3em}.offers-page-intro h3{font-size:24px;margin-bottom:30px;color:#383838}.offers-page-intro__items{padding:50px 0 10px 0;width:70%;margin:0 auto}.offers-page-intro__item--left,.offers-page-intro__item--right{-webkit-box-flex:1;-webkit-flex:1;-moz-box-flex:1;-ms-flex:1;flex:1;padding:0 30px}@media (max-width: 1200px){.offers-page-intro{padding:50px 10%;padding-top:20px;margin-top:0px}}@media (max-width: 979px){.offers-page-intro{margin-top:0px}}@media (max-width: 767px){.offers-page-intro{padding:50px 2%;margin-top:0px;text-align:center}.offers-page-intro--clear{display:block}}@media (max-width: 480px){.offers-page-intro{text-align:center}}.offers-page-banner{padding:100px 25%;background-repeat:no-repeat;-webkit-background-size:cover;-moz-background-size:cover;background-size:cover;background-position:center;background-color:#EFEFEF;text-align:center}.offers-page-banner h2{line-height:1.2em}.offers-page-banner p{font-size:20px;margin-bottom:0;line-height:1.4em}@media (max-width: 767px){.offers-page-banner{padding:100px 5%;text-align:left}}.offers-page-plans__items{display:-webkit-box;display:-ms-flexbox;display:-webkit-flex;display:-moz-box;display:flex;-ms-flex-wrap:wrap;-webkit-flex-wrap:wrap;flex-wrap:wrap;-webkit-box-pack:center;-ms-flex-pack:center;-webkit-justify-content:center;-moz-box-pack:center;justify-content:center;margin-bottom:20px;margin-top:30px}@media (max-width: 767px){.offers-page-plans__items{margin-bottom:10px}}.offers-page-plans__item{background-color:rgba(255,255,255,0.25);-webkit-box-flex:1;-ms-flex:1;-webkit-flex:1;-moz-box-flex:1;flex:1;min-width:300px;max-width:350px;-webkit-border-radius:5px;-moz-border-radius:5px;border-radius:5px;border:1px solid #dddddd;margin:0 10px;position:relative}.offers-page-plans__item--title{padding:30px;padding-bottom:20px;border-bottom:1px solid #dddddd}.offers-page-plans__item--title h3{margin-bottom:0;line-height:1.25em;font-size:1.35em;text-transform:uppercase;letter-spacing:0px}.offers-page-plans__item--body{padding:20px 5%}.offers-page-plans__item--cta{padding:30px;border-top:1px solid #ffdddd}.offers-page-plans__item--cta a{font-size:18px;font-weight:700}.offers-page-plans__item--price{font-size:44px;font-weight:700;color:#EB1F2E}.offers-page-plans__item--price-strike{font-size:24px;margin-bottom:20px;text-decoration:line-through}.offers-page-plans__item--get-cb{margin:0;font-weight:400;font-size:18px;padding-top:0px}@media (max-width: 767px){.offers-page-plans__item{margin-top:-1px}}@media (max-width: 480px){.offers-page-plans__item{margin:10px}}.fit-55 .offers-page-hero{background-image:url("../img/month-end-madenss.jpg");-webkit-background-size:cover;-moz-background-size:cover;background-size:cover;background-repeat:no-repeat;background-position:center;text-align:left;padding-top:100px;padding-bottom:0;overflow:auto;min-height:100vh}@media only screen and (max-width: 767px){.fit-55 .offers-page-hero{background-image:url("/assets/img/month-end-madenss-mobile.jpg");background-color:#E61B21;background-position:top;background-size:contain;min-height:600px}}@media (max-width: 380px){.fit-55 .offers-page-hero{min-height:550px}}.fit-55 .offers-page-hero__wrapper{margin:0;width:45%;margin-left:auto;padding-right:20px;padding-left:5%;margin-top:15vh}@media (max-width: 767px){.fit-55 .offers-page-hero__wrapper{width:100%;padding-right:0px;padding-left:0px;margin-top:450px;margin-top:55vw;padding-bottom:5vw}}@media (max-width: 480px){.fit-55 .offers-page-hero__wrapper{padding-bottom:0}}.fit-55 .offers-page-hero h1{font-size:3em;font-style:italic;color:#EB1F2E;font-weight:900;margin-bottom:20px;margin-top:0;line-height:1.1}@media (max-width: 979px){.fit-55 .offers-page-hero h1{font-size:2.5em}}@media (max-width: 767px){.fit-55 .offers-page-hero h1{margin-top:10px;font-size:2em}}@media (max-width: 480px){.fit-55 .offers-page-hero h1{font-size:1.7em}}.fit-55 .offers-page-hero h2{font-size:1.7em;font-weight:900;line-height:1;color:#1E1E1E;margin-bottom:5px;font-style:italic}@media (max-width: 767px){.fit-55 .offers-page-hero h2{font-size:1.4em}}@media (max-width: 380px){.fit-55 .offers-page-hero h2{font-size:1.2em}}.fit-55 .offers-page-hero p.focus{font-size:1.5em;font-size:2.5em;color:#ffffff;margin-bottom:50px;margin-bottom:30px;font-weight:400;margin-top:5px}@media (max-width: 767px){.fit-55 .offers-page-hero p.focus{font-size:1.2em}}@media (max-width: 767px){.fit-55 .offers-page-hero p{font-size:1.3em}}.fit-55 .offers-page-intro{padding-top:50px;z-index:99;position:relative}p.move-down-icon-animate{font-size:16px !important;text-align:left;padding-top:100px;font-style:normal;font-weight:400;-webkit-filter:opacity(0.9);filter:opacity(0.9)}@media (max-width: 767px){p.move-down-icon-animate{display:none}}.black{color:#1E1E1E}.banner-mobile{display:none}@media (max-width: 767px){.banner-mobile{display:block}}p.offers-page-hero--code{font-size:2.5em;font-weight:700;margin:25px 0}p.offers-page-hero--code span{padding:15px 20px;border:2px dashed #4b4b4b;border-color:#ffffff;color:#eaff00}

diff --git a/src/assets/scss/style.scss b/src/assets/scss/style.scss
@@ -600,6 +600,7 @@
         background-color: #E61B21;
         background-position: top;
         background-size: contain;
+        min-height: 600px;
       }
       
       /* @media (max-width: 480px) {
@@ -611,19 +612,15 @@
         position: relative;
         padding-bottom: 35%;
         min-height: 400px;
-      }
+      } */
 
       @media (max-width: 380px) {
-        background-position: 450% 65%;
-        -webkit-background-size: 90% 90%;
-        -moz-background-size: 90%;
-        background-size: 90%;
-        padding-bottom: 35%;
-      } */
+        min-height: 550px;
+      }
 
       &__wrapper {
         margin: 0;
-        width: 35%;
+        width: 45%;
         margin-left: auto;
         padding-right: 20px;
         padding-left: 5%;
@@ -689,7 +686,7 @@
 
       p.focus {
         font-size: 1.5em;
-        font-size: 2em;
+        font-size: 2.5em;
         color: #ffffff;
         margin-bottom: 50px;
         margin-bottom: 30px;
